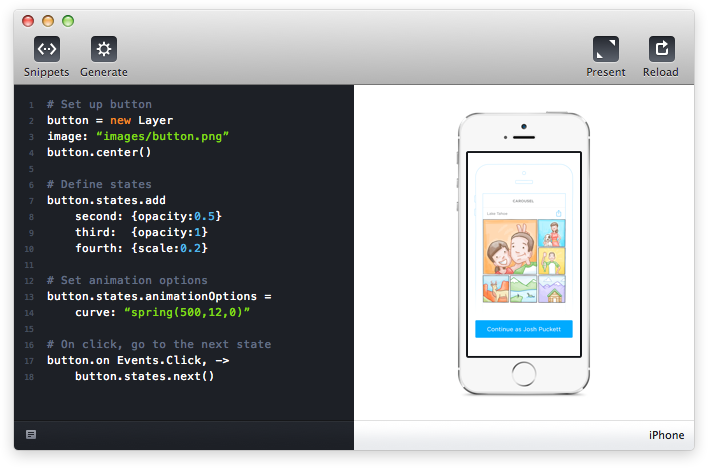
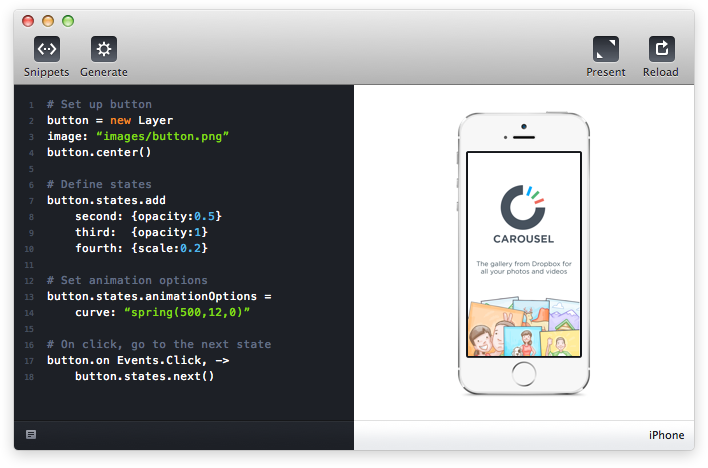
Merge

Changed region(s): [[0.6525, 0.3889, 0.839, 0.7778]]

diff --git a/static/css/style-studio.css b/static/css/style-studio.css
@@ -8,7 +8,16 @@ img {
   max-width: 100%; }
 
 hr {
-  margin: 80px auto; }
+  margin: 120px auto; }
+
+.hr {
+  margin: 100px auto; }
+
+.hr-line {
+  margin: 100px 0 80px 0;
+  height: 1px;
+  background: #eee;
+  max-width: 600px; }
 
 /* TYPOGRAPHY ------------------------------- */
 p {
@@ -69,7 +78,7 @@ h5 {
   line-height: 1.4;
   font-size: 30px;
   max-width: 600px;
-  margin: -20px auto;
+  margin: -60px auto;
   color: rgba(97, 109, 133, 0.6);
   -moz-font-feature-settings: "salt" 1, "ss01" 1;
   -moz-font-feature-settings: "salt=1, ss01=1";
@@ -203,6 +212,9 @@ p.author {
 #screenshot img.studio {
   max-width: 708px;
   width: 100%; }
+
+#screenshot img.studio-600 {
+  display: none; }
 
 #framer section.iphone-bg {
   position: relative;
@@ -490,6 +502,20 @@ section.mobile {
   box-shadow: none; }
 
 @media only screen and (max-width: 1024px) {
+  #screenshot img.studio {
+    display: none; }
+
+  #screenshot img.studio-600 {
+    display: inline-block;
+    max-width: 628px;
+    width: 100%; }
+
+  #screenshot video {
+    position: absolute;
+    max-width: 112px;
+    top: 157px;
+    left: 104px; }
+
   #screenshot-copy p {
     font-size: 17px; }
 

diff --git a/static/css/style-studio.scss b/static/css/style-studio.scss
@@ -43,7 +43,16 @@ img {
 }
 
 hr {
-	margin: 80px auto;
+	margin: 120px auto;
+}
+
+.hr {
+	margin: 100px auto;
+}
+
+.hr-line {
+	margin: 100px 0 80px 0;
+	height: 1px; background: #eee; max-width: 600px;
 }
 
 /* TYPOGRAPHY ------------------------------- */
@@ -103,7 +112,7 @@ h5 {
 	font-weight:200; 
 	line-height: 1.4;
 	font-size: 30px; 
-	max-width: 600px; margin: -20px auto;
+	max-width: 600px; margin: -60px auto;
 	color: $graphite60; 
 	-moz-font-feature-settings:"salt" 1, "ss01" 1; 
 	-moz-font-feature-settings:"salt=1, ss01=1"; 
@@ -228,6 +237,9 @@ p.author {
 	max-width: 708px; width: 100%;
 }
 
+#screenshot img.studio-600 {
+	display: none;
+}
 
 #framer section.iphone-bg {
 	position: relative; z-index: 0;
@@ -537,6 +549,19 @@ section.mobile {
 
 
 @media only screen and (max-width: 1024px) {
+#screenshot img.studio {
+	display: none;
+}
+
+#screenshot img.studio-600 {
+	display: inline-block;
+	max-width: 628px; width: 100%;
+}
+
+#screenshot video {
+	position: absolute; max-width: 112px;
+	top: 157px; left: 104px;
+}
 
 #screenshot-copy p {
 	font-size: 17px;

diff --git a/pages/index.html b/pages/index.html
@@ -25,6 +25,7 @@
 	
 	<section id="screenshot">
 		<img class="studio 2x" src="/static/images/fs/ui-studio.png">
+		<img class="studio-600 2x" src="/static/images/fs/ui-studio-600.png">
 			
 		<section class="video-wrapper">
 		<video id="carousel-inapp" width="100%">
@@ -87,7 +88,7 @@
 		</section>
 		
 	</section> <!---framer block --->
-	<hr>
+	<div class="hr"></div>
 	<section id="start" class="half clearfix">
 		<section class="right">
 			<img class="2x" src="/static/images/fs/generate.png">
@@ -165,7 +166,7 @@
 		<form method="POST" action="http://sites.fastspring.com/podium/product/framerstudio?action=order" target="_top"><input type="submit" value="Buy $49" /></form>
 	</footer>
 	
-	<hr>
+	<div class="hr-line"></div>
 
 	<section id="footer-features" class="one-third clearfix">
 		<section>
